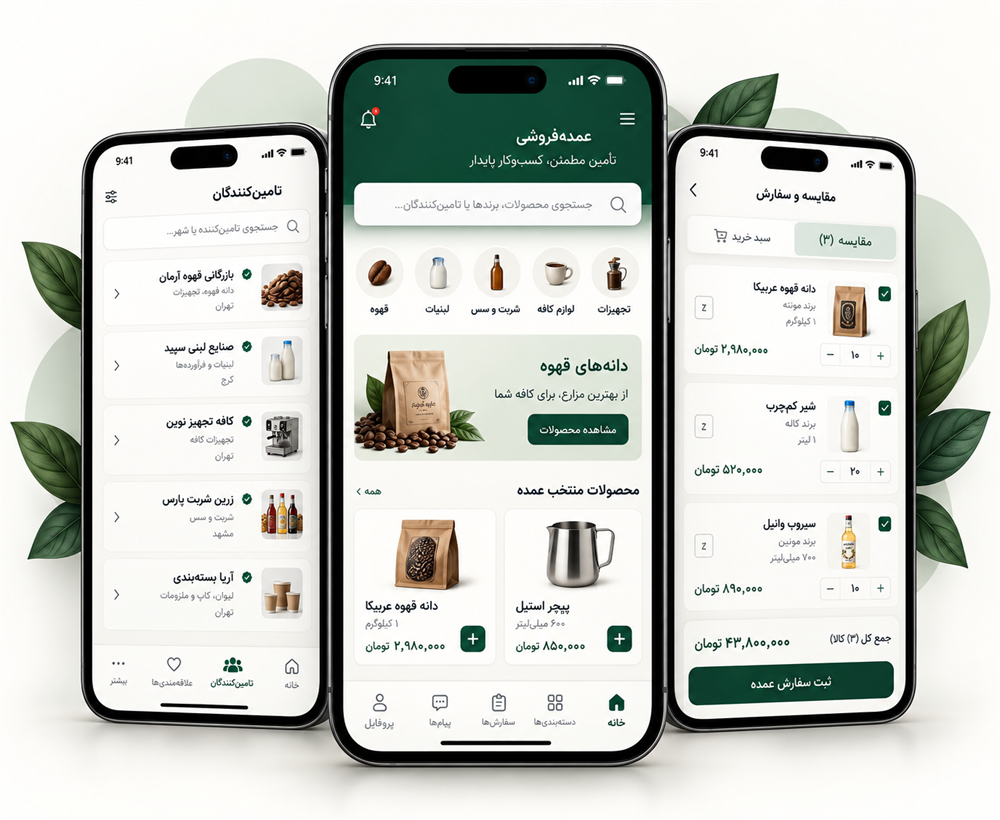
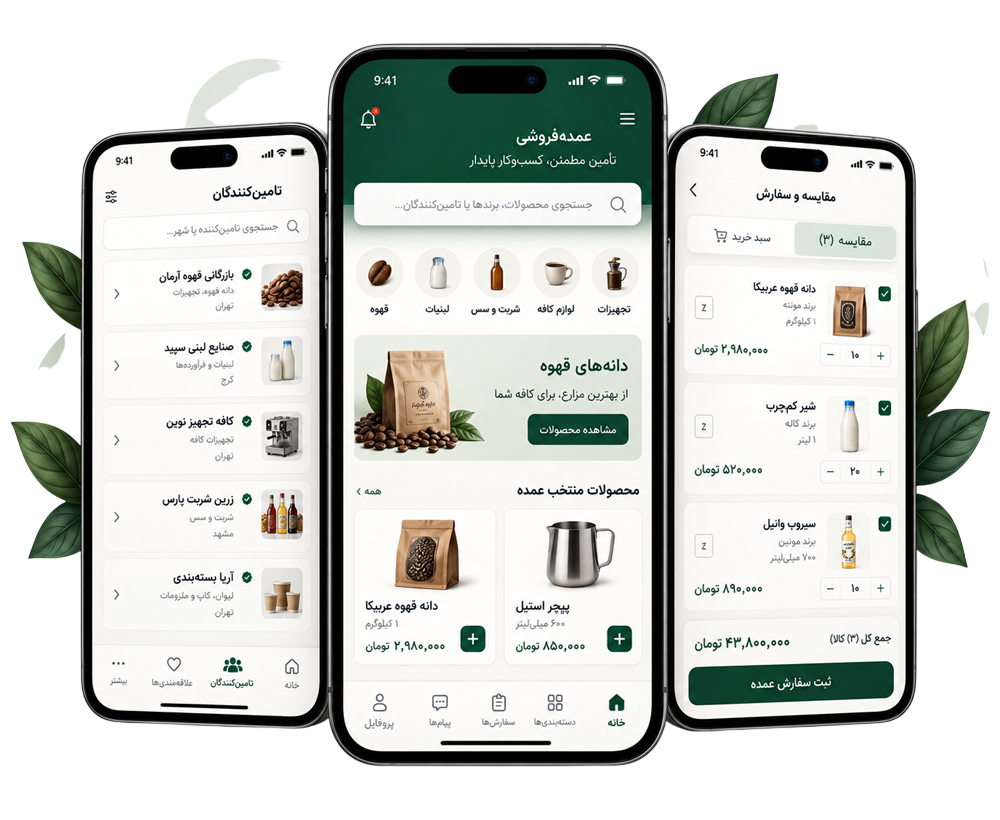
image

diff --git a/components/landing/Hero.tsx b/components/landing/Hero.tsx
@@ -12,24 +12,71 @@ export function Hero() {
   return (
     <>
       <section className="hero section" id="home">
-        <div className="container hero-grid">
+        <div className="container hero-grid" 
+          style={{ backgroundColor: "white" }}
+        >
           <MotionReveal className="hero-copy">
             <div className="eyebrow">اپلیکیشن مخصوص کافهها و رستورانها</div>
-            <h1>تمام خرید کسبوکارت، <span>در یک اپ</span></h1>
-            <p>بارچی، دستیار خرید کافهها و رستورانهاست. محصولات موردنیاز خود را پیدا کنید، پیشنهاد تأمینکنندگان را مقایسه کنید و خریدهای روزانه و دورهای مجموعه را سادهتر مدیریت کنید.</p>
+            <h1>
+              تمام خرید کسبوکارت، <span>در یک اپ</span>
+            </h1>
+            <p>
+              بارچی، دستیار خرید کافهها و رستورانهاست. محصولات موردنیاز خود را
+              پیدا کنید، پیشنهاد تأمینکنندگان را مقایسه کنید و خریدهای روزانه و
+              دورهای مجموعه را سادهتر مدیریت کنید.
+            </p>
             <div className="hero-actions">
-              <a className="button button-primary" href="#download">شروع استفاده از بارچی <FiArrowLeft /></a>
-              <a className="button button-ghost" href="/how-it-works">ببین چطور کار میکند <FiPlayCircle /></a>
+              <a className="button button-primary" href="#download">
+                شروع استفاده از بارچی <FiArrowLeft />
+              </a>
+              <a className="button button-ghost" href="/how-it-works">
+                ببین چطور کار میکند <FiPlayCircle />
+              </a>
             </div>
-            <div className="availability"><span><FaAndroid /> اندروید</span><span><FaApple /> آیفون</span><span><FiGlobe /> نسخهٔ وب</span></div>
+            <div className="availability">
+              <span>
+                <FaAndroid /> اندروید
+              </span>
+              <span>
+                <FaApple /> آیفون
+              </span>
+              <span>
+                <FiGlobe /> نسخهٔ وب
+              </span>
+            </div>
           </MotionReveal>
-          <motion.div className="hero-visual" initial={reduceMotion ? false : { opacity: 0, scale: 0.94, x: -20 }} animate={reduceMotion ? undefined : { opacity: 1, scale: 1, x: 0 }} transition={{ duration: 0.8, delay: 0.15, ease: [0.22, 1, 0.36, 1] }}>
-            <Image src="/images/landing/hero-phones.png" alt="اپلیکیشن بارچی روی سه تلفن همراه" width={1000} height={820} loading="eager" fetchPriority="high" sizes="(max-width: 900px) 100vw, 52vw" />
+          <motion.div
+            className="hero-visual"
+            initial={reduceMotion ? false : { opacity: 0, scale: 0.94, x: -20 }}
+            animate={reduceMotion ? undefined : { opacity: 1, scale: 1, x: 0 }}
+            transition={{
+              duration: 0.8,
+              delay: 0.15,
+              ease: [0.22, 1, 0.36, 1],
+            }}
+          >
+            <Image
+              src="/images/landing/hero-phones.png"
+              alt="اپلیکیشن بارچی روی سه تلفن همراه"
+              width={1000}
+              height={820}
+              loading="eager"
+              fetchPriority="high"
+              sizes="(max-width: 900px) 100vw, 52vw"
+            />
           </motion.div>
         </div>
       </section>
       <MotionReveal className="container benefit-strip">
-        {benefits.map(({ icon: Icon, title, copy }) => <article key={title}><Icon aria-hidden="true" /><div><h3>{title}</h3><p>{copy}</p></div></article>)}
+        {benefits.map(({ icon: Icon, title, copy }) => (
+          <article key={title}>
+            <Icon aria-hidden="true" />
+            <div>
+              <h3>{title}</h3>
+              <p>{copy}</p>
+            </div>
+          </article>
+        ))}
       </MotionReveal>
     </>
   );
